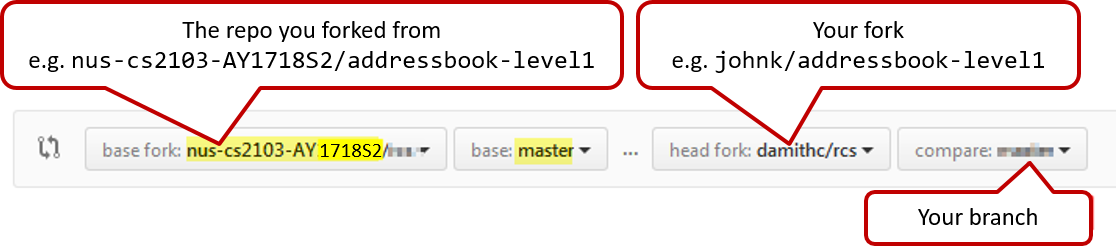
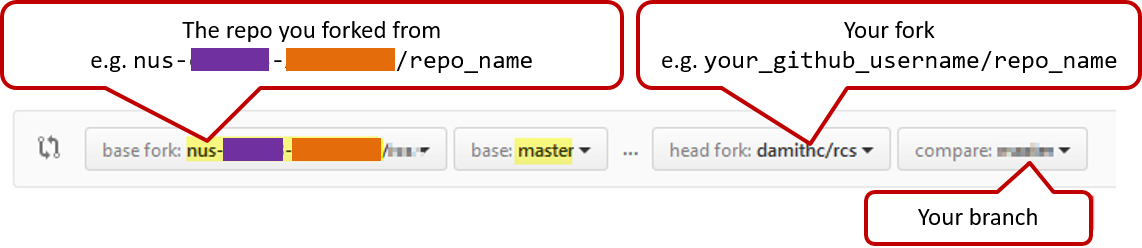
admin/github: update setup instructions

diff --git a/admin/appendixE-gitHub.md b/admin/appendixE-gitHub.md
@@ -41,19 +41,19 @@ More info about setting Git username is [here](https://help.github.com/articles/
 
 1. Fork the repo to your personal GitHub account, if you haven't done so already.
 
-2. Create a branch named after the LO IDe.g. `W2.2b`  
+2. Create a branch named after the LO ID e.g. `W2.2b`
     ==Remember to switch to master branch before creating the new branch.==
     
 3. Commit your changes to that branch. Push to your fork.
 
-4. Create a Pull Request against the master branch of the repo  
+4. Create a Pull Request against the `master` branch of the repo
    `{{module_org}}/{repo_name}`  
-   e.g. `{{module_org}}/addressbook-level1`  
+   e.g. `{{module_org}}/addressbook-level2`
    ==(do not create PRs against the upstream repo at `se-edu` org)== <br/> 
    <img src="{{baseUrl}}/admin/images/PrDetails.png" width="700" /><br/>
    PR name should be: `[LO_ID][TEAM_ID]Your Name`  
-   e.g. If you are in team 1 of tutorial W09 (i.e. Wednesday 9am), `[W2.2b][W09-A1]James Yong`. 
-   Your Team ID can be found in [this page](https://docs.google.com/spreadsheets/d/e/2PACX-1vTSnp6t_MzmNDS2Jg5GPWkHoJmX0ISL_XBz86Z2n_CxvEkwHw4yZCWxaDZbRFb6PBotFQRPZXfreJwI/pubhtml?gid=0&single=true). 
+   e.g. If you are in tutorial W09 (i.e. Wednesday 9am) and team 1, `[W2.2b][W09-1]James Yong`.
+   Your Team ID can be found in [this page]({{ team_IDs_page }}).
    Note that our tutorial IDs are different from those shown in CORS/IVLE. Our tutorial IDs are given in the panel below.
 
 <div class="indented-level2">
@@ -77,7 +77,7 @@ More info about setting Git username is [here](https://help.github.com/articles/
 
 The instructions below are for setting up a GitHub organization for your team.
 
-You can create your GitHub account after receiving your team ID. Here are the instructions (==please follow the organization/repo name format closely because we use scripts to download your code. If the names are not as expected, our scripts will not work==):
+You can create your GitHub organization (for your team) after receiving your team ID. Here are the instructions (==please follow the organization/repo name format precisely because we use scripts to download your code. If the names are not as expected, our scripts will not work==):
 
 * One team member (e.g. team leader) should create an organization with the following details:
 * ==Organization name : `{{ module }}-{{ semester }}-TEAM_ID`==. e.g.  `{{ module }}-{{ semester }}-W12-1`
@@ -95,14 +95,15 @@ You can create your GitHub account after receiving your team ID. Here are the in
 Only one team member:
 
 1. Fork [Address Book Level 4]({{module_org}}/addressbook-level4) to your team org.
-1. Rename the forked repo as `main`. This repo is to be used as the repo for your project.
-1. Ensure your team members have the desired level of access to your team repo
+1. ==Rename the forked repo as `main`==. This repo is to be used as the repo for your project.
+1. Ensure your team members have the desired level of access to your team repo.
 
 All team members:
 
-1. Fork the `main` repo (created above) to your personal GitHub account. 
+1. Go to the `main` repo (created above) and click on the `watch` button to subscribe to activities of the repo
+1. Fork the `main` repo to your personal GitHub account.
 1. Clone the fork to your Computer.
-1. Set it up as an Intellij project (follow the instructions in the Developer Guide carefully).
+1. Recommended: Set it up as an Intellij project (follow the instructions in the Developer Guide carefully).
 
 Note that some of our download scripts depend on the following folder paths. Please do not alter those paths in your project. 
 * `/src/main`  
@@ -115,7 +116,7 @@ Note that some of our download scripts depend on the following folder paths. Ple
 
 ## Issue tracker setup
 
-When you create a repo, you get an issue tracker for that repo automatically. Configure it as follows:
+Configure the issue tracker of the `main` repo as follows:
 
 * Delete existing labels and add the following labels.
 
